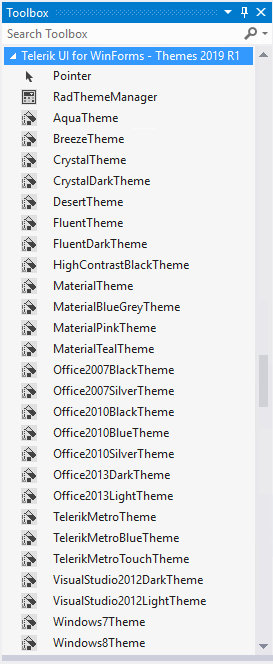
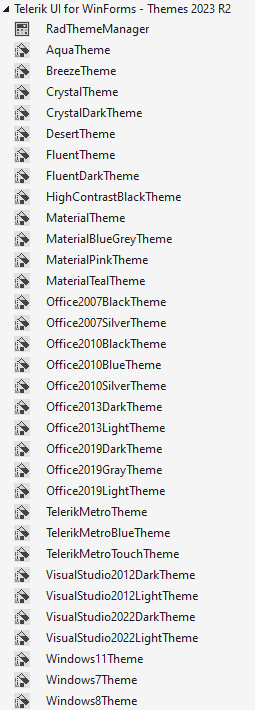
New theme - VS2022 Dark

Changed region(s): [[0.0, 0.0, 1.0, 1.0], [0.9333, 0.512, 0.9882, 0.6325]]

diff --git a/styling-and-appearance/using-default-themes.md b/styling-and-appearance/using-default-themes.md
@@ -29,6 +29,8 @@ If you have installed the suite from the provided installation files, you will s
 
 >note Since R1 2021 Telerik UI for Winforms suite has introduced the brand new **Office2019Light** theme. Inspired by the latest Microsoft Office application, the **Office2019Light** theme is here to help delivering that fresh look and feel to your WinForms application. As of **R2 2021** there are Gray and Dark variations of the Office2019 theme.
 
+>note Since R2 2023 Telerik UI for WinForms suite introduced **VisualStudio2022Dark** theme.
+
 >note Since R1 2022 Telerik UI for WinForms suite introduced **VisualStudio2022** theme inspired by the last released version of Visual Studio.
 
 In order to use the Theme components, just drag and drop them from the VS Toolbox to the form. This will add a reference to the corresponding theme assembly in the project and will enable the theme in the ThemeName drop-down of all Telerik controls on the form. All you have to do afterwards is to set the needed theme from the __ThemeName__ drop-down (in the smart tag) or programmatically.

diff --git a/styling-and-appearance/themes-style.md b/styling-and-appearance/themes-style.md
@@ -12,6 +12,10 @@ position: 2
 
 This article lists all of the available themes that come with the installation of the Telerik UI for WinForms suite and illustrates the design for each of them.
 
+## VisualStudio2022Dark
+
+![themes-style 033](images/themes-style033.png)
+
 ## Windows11
 
 ![Windows11 Theme](images/themes-style032.png)
